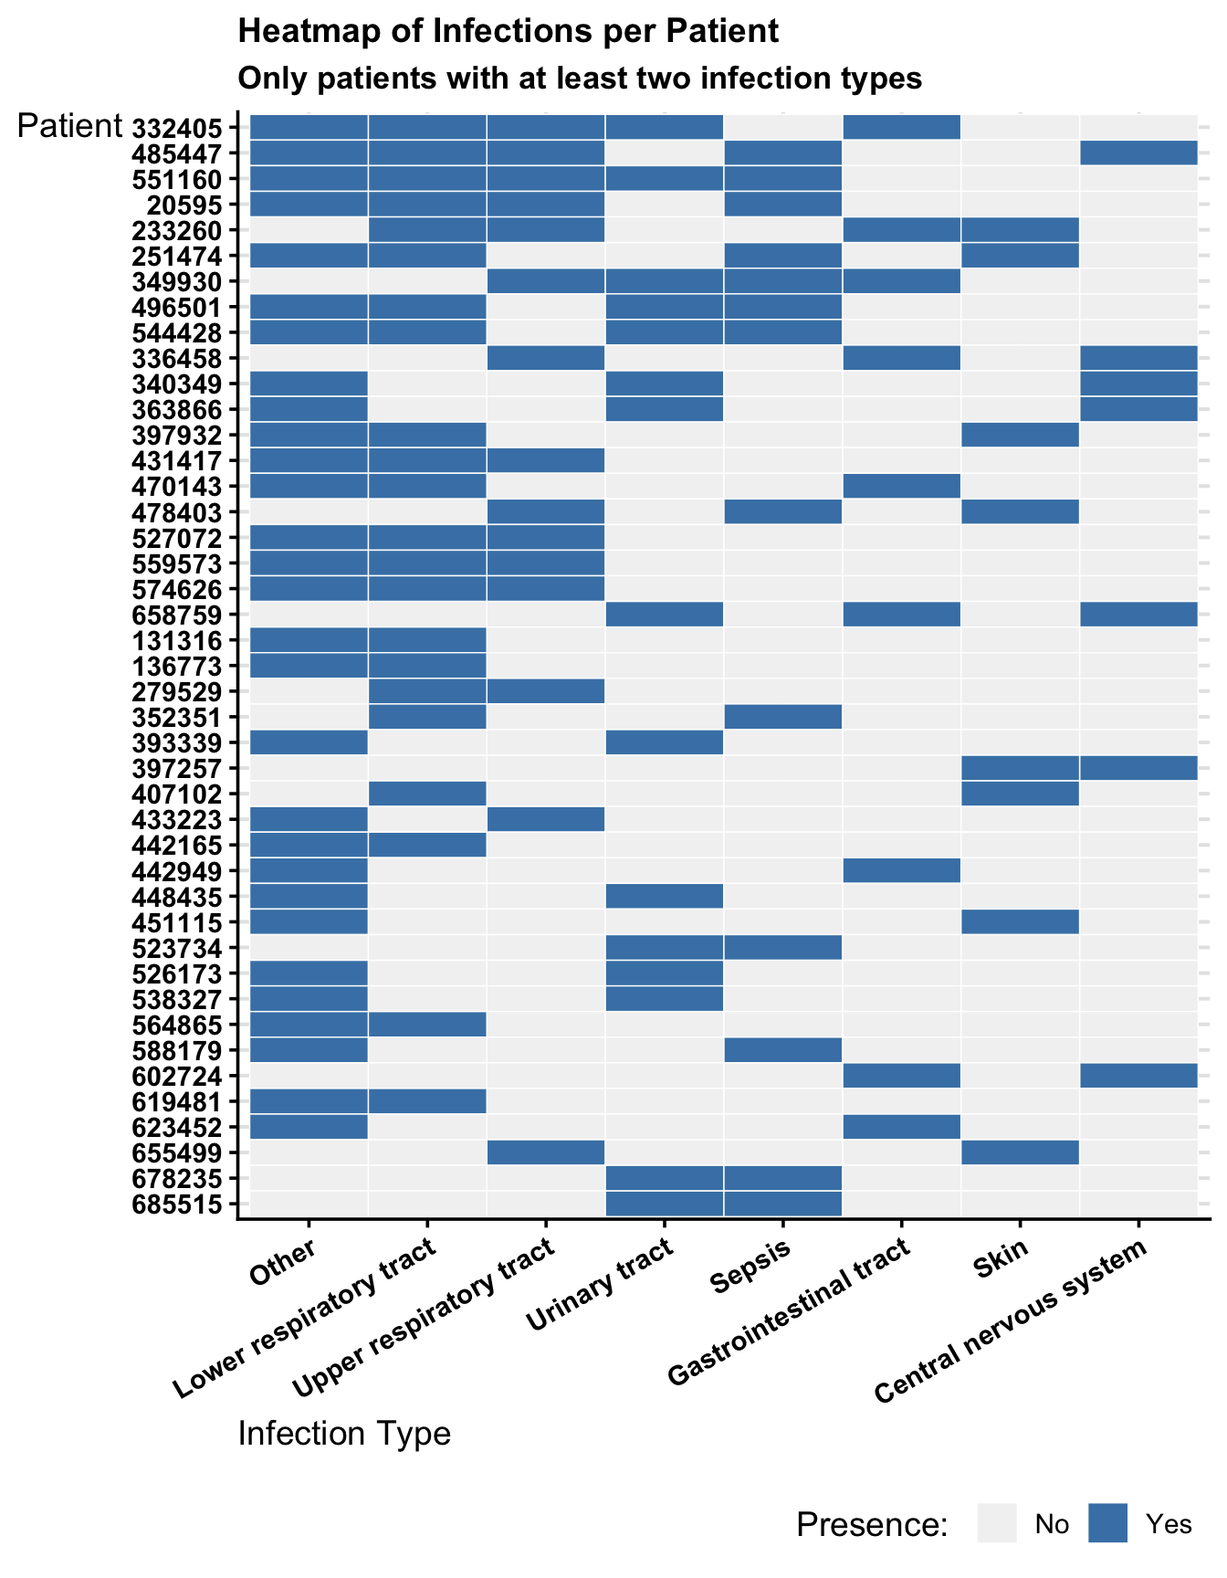
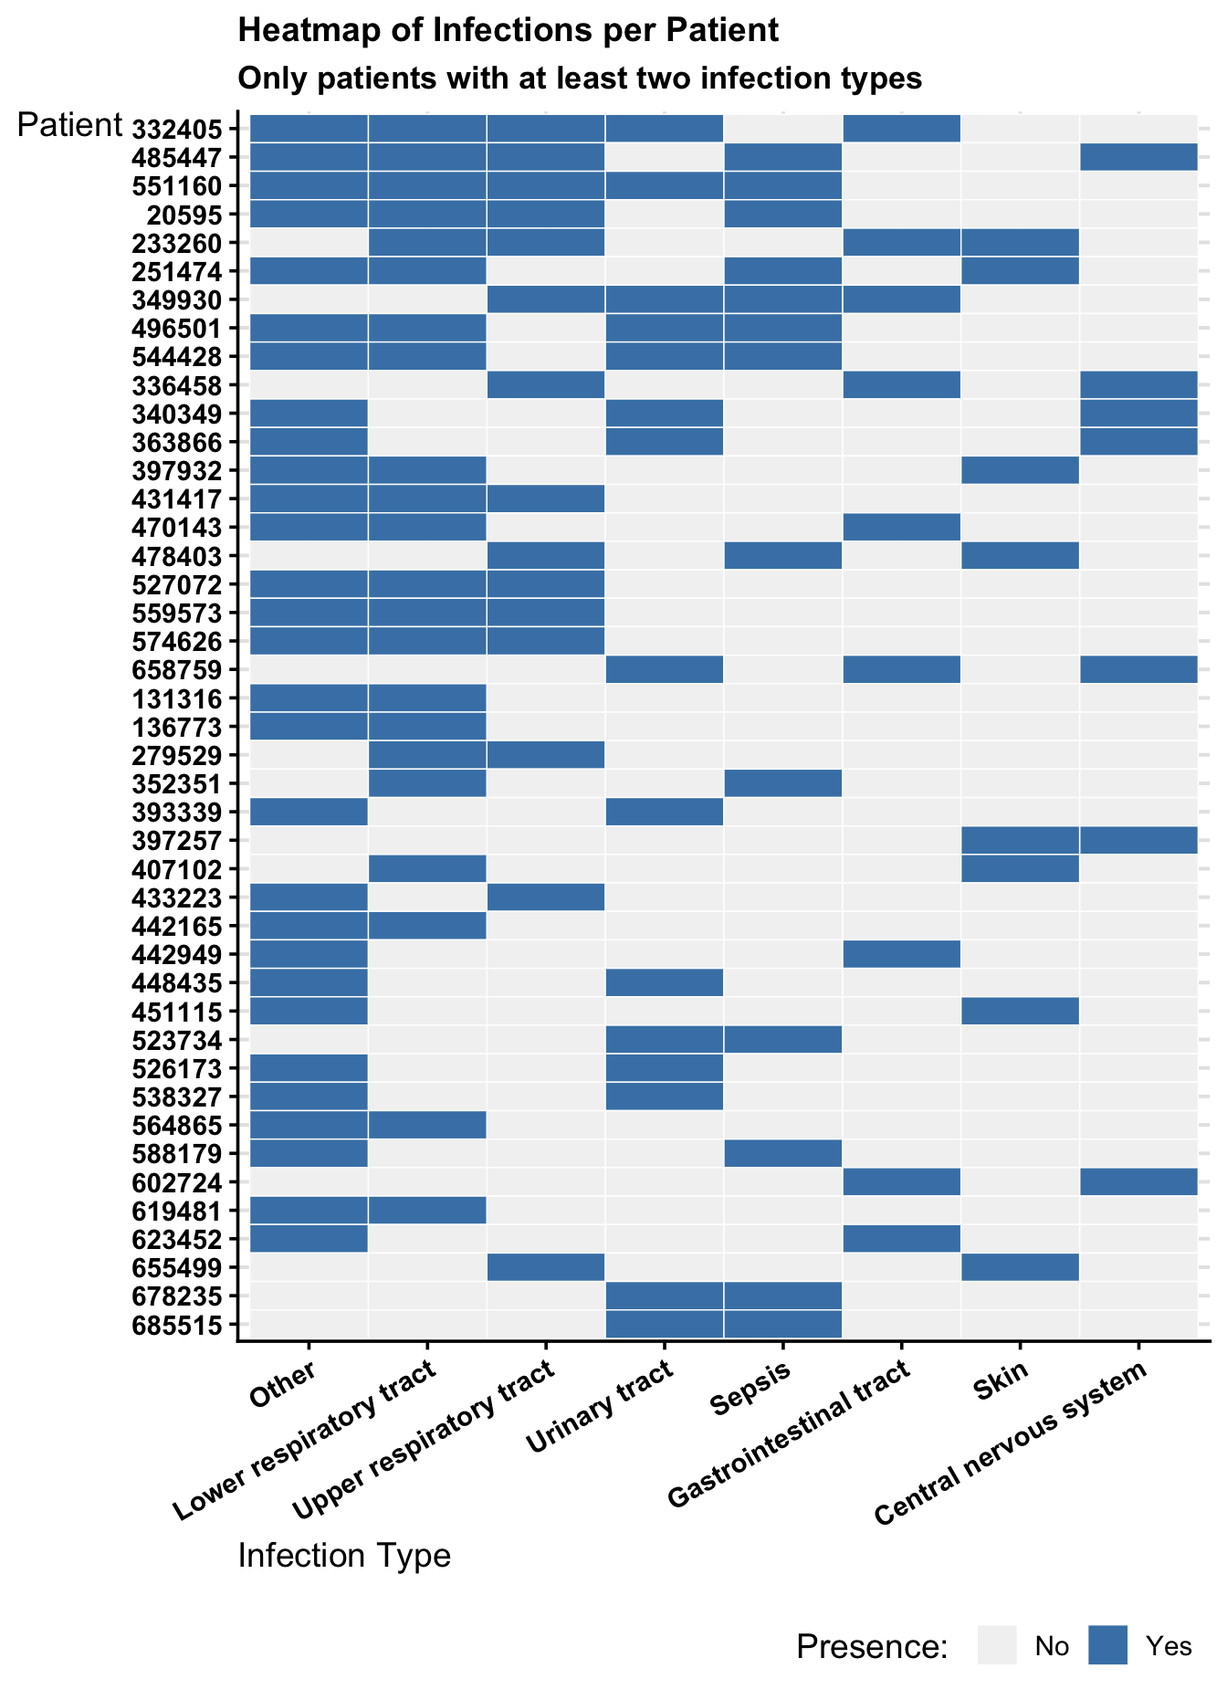
Update comorbidity splitting logic to split on both semicolons and commas in respostas_elpt.qmd

diff --git a/carolprando/protf_and_elpt/respostas_elpt.html b/carolprando/protf_and_elpt/respostas_elpt.html
@@ -608,7 +608,7 @@ window.Quarto = {
 </div>
 <p>Entre os 137 pacientes com comorbidade, 97 diferentes combinações de comorbidade são observadas - mas apenas 15 aparecem em ao menos dois pacientes.</p>
 <p>Mesma coisa mas agora reunindo todos os resultados similares em um único grupo de soma.</p>
-<p>68 diferentes, 28 aparecendo ao menos duas vezes.</p>
+<p>59 diferentes, 30 aparecendo ao menos duas vezes.</p>
 <div class="cell">
 <details class="code-fold">
 <summary>Code</summary>
@@ -619,89 +619,83 @@ window.Quarto = {
 <span id="cb20-5"><a href="#cb20-5"></a>  dplyr<span class="sc">::</span><span class="fu">select</span>(<span class="at">Comorbidities =</span> <span class="st">`</span><span class="at">21.1 -  Qual comorbidade o paciente possui?</span></span>
 <span id="cb20-6"><a href="#cb20-6"></a></span>
 <span id="cb20-7"><a href="#cb20-7"></a><span class="at">-Em caso negativo responder com NA</span><span class="st">`</span>) <span class="sc">|&gt;</span></span>
-<span id="cb20-8"><a href="#cb20-8"></a>  tidyr<span class="sc">::</span><span class="fu">separate_longer_delim</span>(<span class="at">cols =</span> Comorbidities, <span class="at">delim =</span> <span class="st">";"</span>) <span class="sc">|&gt;</span></span>
-<span id="cb20-9"><a href="#cb20-9"></a>  dplyr<span class="sc">::</span><span class="fu">mutate</span>(</span>
-<span id="cb20-10"><a href="#cb20-10"></a>    <span class="at">Comorbidities =</span> stringr<span class="sc">::</span><span class="fu">str_trim</span>(Comorbidities),</span>
-<span id="cb20-11"><a href="#cb20-11"></a>    <span class="at">Comorbidities =</span> stringi<span class="sc">::</span><span class="fu">stri_trans_general</span>(Comorbidities, <span class="st">"Latin-ASCII"</span>),</span>
-<span id="cb20-12"><a href="#cb20-12"></a>    <span class="at">Comorbidities =</span> stringr<span class="sc">::</span><span class="fu">str_to_sentence</span>(Comorbidities)</span>
-<span id="cb20-13"><a href="#cb20-13"></a>  ) <span class="sc">|&gt;</span></span>
-<span id="cb20-14"><a href="#cb20-14"></a>  dplyr<span class="sc">::</span><span class="fu">count</span>(Comorbidities) <span class="sc">|&gt;</span> </span>
-<span id="cb20-15"><a href="#cb20-15"></a>  dplyr<span class="sc">::</span><span class="fu">arrange</span>(dplyr<span class="sc">::</span><span class="fu">desc</span>(n)) <span class="sc">|&gt;</span> </span>
-<span id="cb20-16"><a href="#cb20-16"></a>  <span class="co"># dplyr::filter(n &gt; 1) |&gt;</span></span>
-<span id="cb20-17"><a href="#cb20-17"></a>  <span class="fu">print</span>(<span class="at">n =</span> <span class="dv">100</span>)</span></code></pre></div><button title="Copy to Clipboard" class="code-copy-button"><i class="bi"></i></button></div>
+<span id="cb20-8"><a href="#cb20-8"></a>  dplyr<span class="sc">::</span><span class="fu">mutate</span>(<span class="at">Comorbidities =</span> stringr<span class="sc">::</span><span class="fu">str_replace_all</span>(Comorbidities, <span class="st">","</span>, <span class="st">";"</span>)) <span class="sc">|&gt;</span></span>
+<span id="cb20-9"><a href="#cb20-9"></a>  tidyr<span class="sc">::</span><span class="fu">separate_longer_delim</span>(<span class="at">cols =</span> Comorbidities, <span class="at">delim =</span> <span class="st">";"</span>) <span class="sc">|&gt;</span></span>
+<span id="cb20-10"><a href="#cb20-10"></a>  dplyr<span class="sc">::</span><span class="fu">mutate</span>(</span>
+<span id="cb20-11"><a href="#cb20-11"></a>    <span class="at">Comorbidities =</span> stringr<span class="sc">::</span><span class="fu">str_trim</span>(Comorbidities),</span>
+<span id="cb20-12"><a href="#cb20-12"></a>    <span class="at">Comorbidities =</span> stringi<span class="sc">::</span><span class="fu">stri_trans_general</span>(Comorbidities, <span class="st">"Latin-ASCII"</span>),</span>
+<span id="cb20-13"><a href="#cb20-13"></a>    <span class="at">Comorbidities =</span> stringr<span class="sc">::</span><span class="fu">str_to_sentence</span>(Comorbidities)</span>
+<span id="cb20-14"><a href="#cb20-14"></a>  ) <span class="sc">|&gt;</span></span>
+<span id="cb20-15"><a href="#cb20-15"></a>  dplyr<span class="sc">::</span><span class="fu">filter</span>(Comorbidities <span class="sc">!=</span> <span class="st">""</span>) <span class="sc">|&gt;</span></span>
+<span id="cb20-16"><a href="#cb20-16"></a>  dplyr<span class="sc">::</span><span class="fu">count</span>(Comorbidities) <span class="sc">|&gt;</span> </span>
+<span id="cb20-17"><a href="#cb20-17"></a>  dplyr<span class="sc">::</span><span class="fu">arrange</span>(dplyr<span class="sc">::</span><span class="fu">desc</span>(n)) <span class="sc">|&gt;</span> </span>
+<span id="cb20-18"><a href="#cb20-18"></a>  <span class="co"># dplyr::filter(n &gt; 1) |&gt;</span></span>
+<span id="cb20-19"><a href="#cb20-19"></a>  <span class="fu">print</span>(<span class="at">n =</span> <span class="dv">100</span>)</span></code></pre></div><button title="Copy to Clipboard" class="code-copy-button"><i class="bi"></i></button></div>
 </details>
 <div class="cell-output cell-output-stdout">
-<pre><code># A tibble: 68 × 2
-   Comorbidities                                                  n
-   &lt;chr&gt;                                                      &lt;int&gt;
- 1 Nefropatia                                                    23
- 2 Alergia                                                       21
- 3 Neurologica                                                   20
- 4 Cardiopatia                                                   17
- 5 Hepatopatia                                                   16
- 6 Sindrome genetica                                             14
- 7 Pneumopatia                                                   13
- 8 Anemia                                                        11
- 9 Prematuridade                                                  8
-10 Oncologica                                                     7
-11 Deformidade ossea congenita                                    6
-12 Lupus eritematoso sistemico                                    6
-13 Doenca de via biliar                                           5
-14 Sindrome nefrotica                                             5
-15 Tmo                                                            5
-16 Artrite idiopatica juvenil                                     4
-17 Diabetes tipo i ou ii                                          4
-18 Doenca intestinal                                              4
-19 Hipertensao                                                    4
-20 Sindrome de down                                               3
-21 Esclerodermia sistemica                                        2
-22 Hipotireoidismo                                                2
-23 Imunodeficiencia                                               2
-24 Na                                                             2
-25 Obesidade                                                      2
-26 Sindrome de evans                                              2
-27 Transplante cardiaco                                           2
-28 Transplante hepatico                                           2
-29 Acidemia propionica                                            1
-30 Alergia, cardiopatia, oncologica                               1
-31 Artrite                                                        1
-32 Artrite psoriaca                                               1
-33 Artrite reumatoide juvenil                                     1
-34 Cardiopatia, deformidade ossea congenita                       1
-35 Cardiopatia, doenca renal, pneumopatia, acidose metabolica     1
-36 Coagulopatia                                                   1
-37 Deficiencia de gh                                              1
-38 Deformidade ossea congenita, neurologica                       1
-39 Dermatite atopica                                              1
-40 Dermatopolimiosite                                             1
-41 Desnutricao                                                    1
-42 Distrofia simpatica reflexa                                    1
-43 Doenca de behcet                                               1
-44 Doenca de kawasaki                                             1
-45 Doenca do enxerto contra o hospedeiro                          1
-46 Doenca renal                                                   1
-47 Doenca renal, hepatopatia                                      1
-48 Doenca reumatologica                                           1
-49 Esclerose sistemica                                            1
-50 Fistula enteral de alto debito                                 1
-51 Hematoncologica                                                1
-52 Hipertensao arterial                                           1
-53 Hipogamaglobulinemia                                           1
-54 Hipogamaglobulinemia transitoria da infancia                   1
-55 Infeccoes congenitas                                           1
-56 Insuficiencia renal                                            1
-57 Insuficiencia renal, pneumopatia, hipertensao arterial         1
-58 Insuficiencia renal, sindrome de down                          1
-59 Insuficiencia renal, sindrome genetica                         1
-60 Neurologica, pancitopenia                                      1
-61 Neurologica, sindrome genetica                                 1
-62 Neuropatia em investigacao                                     1
-63 Poliarterite nodosa                                            1
-64 Poliartrite                                                    1
-65 Purpura trombocitopenica imune                                 1
-66 Sindrome da amplificacao dolorosa                              1
-67 Sindrome de kawasaki                                           1
-68 Sindrome hemolitico-uremica                                    1</code></pre>
+<pre><code># A tibble: 60 × 2
+   Comorbidities                                    n
+   &lt;chr&gt;                                        &lt;int&gt;
+ 1 Nefropatia                                      23
+ 2 Neurologica                                     23
+ 3 Alergia                                         22
+ 4 Cardiopatia                                     20
+ 5 Hepatopatia                                     17
+ 6 Sindrome genetica                               16
+ 7 Pneumopatia                                     15
+ 8 Anemia                                          11
+ 9 Deformidade ossea congenita                      8
+10 Oncologica                                       8
+11 Prematuridade                                    8
+12 Lupus eritematoso sistemico                      6
+13 Doenca de via biliar                             5
+14 Sindrome nefrotica                               5
+15 Tmo                                              5
+16 Artrite idiopatica juvenil                       4
+17 Diabetes tipo i ou ii                            4
+18 Doenca intestinal                                4
+19 Hipertensao                                      4
+20 Insuficiencia renal                              4
+21 Sindrome de down                                 4
+22 Doenca renal                                     3
+23 Esclerodermia sistemica                          2
+24 Hipertensao arterial                             2
+25 Hipotireoidismo                                  2
+26 Imunodeficiencia                                 2
+27 Na                                               2
+28 Obesidade                                        2
+29 Sindrome de evans                                2
+30 Transplante cardiaco                             2
+31 Transplante hepatico                             2
+32 Acidemia propionica                              1
+33 Acidose metabolica                               1
+34 Artrite                                          1
+35 Artrite psoriaca                                 1
+36 Artrite reumatoide juvenil                       1
+37 Coagulopatia                                     1
+38 Deficiencia de gh                                1
+39 Dermatite atopica                                1
+40 Dermatopolimiosite                               1
+41 Desnutricao                                      1
+42 Distrofia simpatica reflexa                      1
+43 Doenca de behcet                                 1
+44 Doenca de kawasaki                               1
+45 Doenca do enxerto contra o hospedeiro            1
+46 Doenca reumatologica                             1
+47 Esclerose sistemica                              1
+48 Fistula enteral de alto debito                   1
+49 Hematoncologica                                  1
+50 Hipogamaglobulinemia                             1
+51 Hipogamaglobulinemia transitoria da infancia     1
+52 Infeccoes congenitas                             1
+53 Neuropatia em investigacao                       1
+54 Pancitopenia                                     1
+55 Poliarterite nodosa                              1
+56 Poliartrite                                      1
+57 Purpura trombocitopenica imune                   1
+58 Sindrome da amplificacao dolorosa                1
+59 Sindrome de kawasaki                             1
+60 Sindrome hemolitico-uremica                      1</code></pre>
 </div>
 </div>
 </section>
@@ -1097,7 +1091,7 @@ window.Quarto = {
 #   ¹`21.1 -  Qual comorbidade o paciente possui?\n\n-Em caso negativo responder com NA`</code></pre>
 </div>
 </div>
-<p>Reunindo os resultados similares em um único grupo, temos 35 diferentes.</p>
+<p>Reunindo os resultados similares em um único grupo, temos 32 diferentes.</p>
 <div class="cell">
 <details class="code-fold">
 <summary>Code</summary>
@@ -1111,36 +1105,38 @@ window.Quarto = {
 <span id="cb50-8"><a href="#cb50-8"></a>  dplyr<span class="sc">::</span><span class="fu">select</span>(<span class="at">Comorbidities =</span> <span class="st">`</span><span class="at">21.1 -  Qual comorbidade o paciente possui?</span></span>
 <span id="cb50-9"><a href="#cb50-9"></a></span>
 <span id="cb50-10"><a href="#cb50-10"></a><span class="at">-Em caso negativo responder com NA</span><span class="st">`</span>) <span class="sc">|&gt;</span></span>
-<span id="cb50-11"><a href="#cb50-11"></a>  tidyr<span class="sc">::</span><span class="fu">separate_longer_delim</span>(<span class="at">cols =</span> Comorbidities, <span class="at">delim =</span> <span class="st">";"</span>) <span class="sc">|&gt;</span></span>
-<span id="cb50-12"><a href="#cb50-12"></a>  dplyr<span class="sc">::</span><span class="fu">mutate</span>(</span>
-<span id="cb50-13"><a href="#cb50-13"></a>    <span class="at">Comorbidities =</span> stringr<span class="sc">::</span><span class="fu">str_trim</span>(Comorbidities),</span>
-<span id="cb50-14"><a href="#cb50-14"></a>    <span class="at">Comorbidities =</span> stringi<span class="sc">::</span><span class="fu">stri_trans_general</span>(Comorbidities, <span class="st">"Latin-ASCII"</span>),</span>
-<span id="cb50-15"><a href="#cb50-15"></a>    <span class="at">Comorbidities =</span> stringr<span class="sc">::</span><span class="fu">str_to_sentence</span>(Comorbidities)</span>
-<span id="cb50-16"><a href="#cb50-16"></a>  ) <span class="sc">|&gt;</span></span>
-<span id="cb50-17"><a href="#cb50-17"></a>  dplyr<span class="sc">::</span><span class="fu">count</span>(Comorbidities) <span class="sc">|&gt;</span> </span>
-<span id="cb50-18"><a href="#cb50-18"></a>  dplyr<span class="sc">::</span><span class="fu">arrange</span>(dplyr<span class="sc">::</span><span class="fu">desc</span>(n)) <span class="sc">|&gt;</span> </span>
-<span id="cb50-19"><a href="#cb50-19"></a>  <span class="fu">print</span>(<span class="at">n =</span> <span class="dv">30</span>)</span></code></pre></div><button title="Copy to Clipboard" class="code-copy-button"><i class="bi"></i></button></div>
+<span id="cb50-11"><a href="#cb50-11"></a>  dplyr<span class="sc">::</span><span class="fu">mutate</span>(<span class="at">Comorbidities =</span> stringr<span class="sc">::</span><span class="fu">str_replace_all</span>(Comorbidities, <span class="st">","</span>, <span class="st">";"</span>)) <span class="sc">|&gt;</span></span>
+<span id="cb50-12"><a href="#cb50-12"></a>  tidyr<span class="sc">::</span><span class="fu">separate_longer_delim</span>(<span class="at">cols =</span> Comorbidities, <span class="at">delim =</span> <span class="st">";"</span>) <span class="sc">|&gt;</span></span>
+<span id="cb50-13"><a href="#cb50-13"></a>  dplyr<span class="sc">::</span><span class="fu">mutate</span>(</span>
+<span id="cb50-14"><a href="#cb50-14"></a>    <span class="at">Comorbidities =</span> stringr<span class="sc">::</span><span class="fu">str_trim</span>(Comorbidities),</span>
+<span id="cb50-15"><a href="#cb50-15"></a>    <span class="at">Comorbidities =</span> stringi<span class="sc">::</span><span class="fu">stri_trans_general</span>(Comorbidities, <span class="st">"Latin-ASCII"</span>),</span>
+<span id="cb50-16"><a href="#cb50-16"></a>    <span class="at">Comorbidities =</span> stringr<span class="sc">::</span><span class="fu">str_to_sentence</span>(Comorbidities)</span>
+<span id="cb50-17"><a href="#cb50-17"></a>  ) <span class="sc">|&gt;</span></span>
+<span id="cb50-18"><a href="#cb50-18"></a>  dplyr<span class="sc">::</span><span class="fu">filter</span>(Comorbidities <span class="sc">!=</span> <span class="st">""</span>) <span class="sc">|&gt;</span></span>
+<span id="cb50-19"><a href="#cb50-19"></a>  dplyr<span class="sc">::</span><span class="fu">count</span>(Comorbidities) <span class="sc">|&gt;</span> </span>
+<span id="cb50-20"><a href="#cb50-20"></a>  dplyr<span class="sc">::</span><span class="fu">arrange</span>(dplyr<span class="sc">::</span><span class="fu">desc</span>(n)) <span class="sc">|&gt;</span> </span>
+<span id="cb50-21"><a href="#cb50-21"></a>  <span class="fu">print</span>(<span class="at">n =</span> <span class="dv">30</span>)</span></code></pre></div><button title="Copy to Clipboard" class="code-copy-button"><i class="bi"></i></button></div>
 </details>
 <div class="cell-output cell-output-stdout">
-<pre><code># A tibble: 35 × 2
+<pre><code># A tibble: 32 × 2
    Comorbidities                                    n
    &lt;chr&gt;                                        &lt;int&gt;
  1 Cardiopatia                                      7
  2 Hepatopatia                                      6
  3 Nefropatia                                       6
- 4 Anemia                                           3
- 5 Alergia                                          2
- 6 Doenca de via biliar                             2
- 7 Lupus eritematoso sistemico                      2
- 8 Neurologica                                      2
- 9 Pneumopatia                                      2
-10 Sindrome genetica                                2
-11 Tmo                                              2
-12 Acidemia propionica                              1
-13 Coagulopatia                                     1
-14 Deficiencia de gh                                1
-15 Deformidade ossea congenita                      1
-16 Deformidade ossea congenita, neurologica         1
+ 4 Neurologica                                      5
+ 5 Sindrome genetica                                4
+ 6 Anemia                                           3
+ 7 Insuficiencia renal                              3
+ 8 Alergia                                          2
+ 9 Deformidade ossea congenita                      2
+10 Doenca de via biliar                             2
+11 Lupus eritematoso sistemico                      2
+12 Pneumopatia                                      2
+13 Tmo                                              2
+14 Acidemia propionica                              1
+15 Coagulopatia                                     1
+16 Deficiencia de gh                                1
 17 Dermatite atopica                                1
 18 Diabetes tipo i ou ii                            1
 19 Doenca intestinal                                1
@@ -1148,21 +1144,21 @@ window.Quarto = {
 21 Hipogamaglobulinemia                             1
 22 Hipogamaglobulinemia transitoria da infancia     1
 23 Hipotireoidismo                                  1
-24 Insuficiencia renal                              1
-25 Insuficiencia renal, sindrome de down            1
-26 Insuficiencia renal, sindrome genetica           1
-27 Na                                               1
-28 Neurologica, pancitopenia                        1
-29 Neurologica, sindrome genetica                   1
-30 Neuropatia em investigacao                       1
-# ℹ 5 more rows</code></pre>
+24 Na                                               1
+25 Neuropatia em investigacao                       1
+26 Pancitopenia                                     1
+27 Purpura trombocitopenica imune                   1
+28 Sindrome da amplificacao dolorosa                1
+29 Sindrome de down                                 1
+30 Sindrome de evans                                1
+# ℹ 2 more rows</code></pre>
 </div>
 </div>
 </section>
 </section>
 <section id="análise-dos-menores-de-1-ano" class="level1">
 <h1>3. Análise dos menores de 1 ano</h1>
-<p>A amostragem de menores de 1 ano foi expandida para 63 pacientes. Destes, 23 possuem registro de comorbidades (com destaque para Cardiopatia [4] e Neurológica [4]), 33 não possuem e 7 sem informação. Nenhuma menção de “Prematuridade” foi registrada no campo de comorbidades.</p>
+<p>A amostragem de menores de 1 ano foi expandida para 63 pacientes. Destes, 23 possuem registro de comorbidades (com destaque para Cardiopatia [7] e Neurológica [7]), 33 não possuem e 7 sem informação. Nenhuma menção de “Prematuridade” foi registrada no campo de comorbidades.</p>
 <div class="cell">
 <details class="code-fold">
 <summary>Code</summary>
